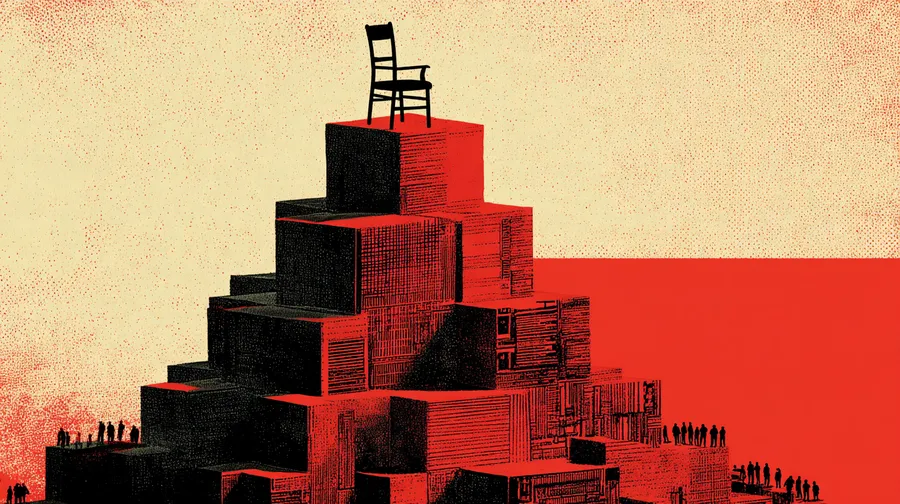
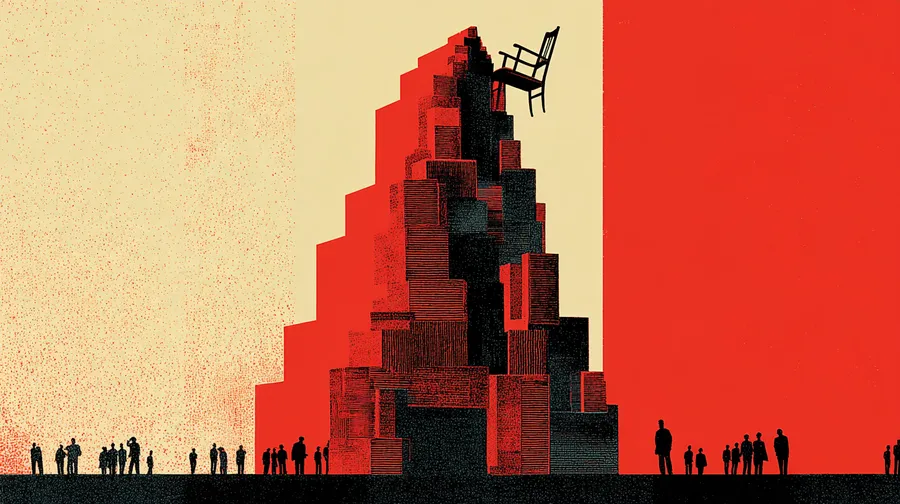
Settimanale n. 2: copertina con la torre stretta, cifra in nero (cover.art.figColor)
Claude-Session: https://claude.ai/code/session_01JWK7zqs3Rzft7JgutLc4bQ

diff --git a/settimanale/index.html b/settimanale/index.html
@@ -102,7 +102,7 @@ h1,h2,h3{text-wrap:balance}
 .hero h2{font-family:var(--f-disp);font-weight:400;font-size:clamp(44px,5.6vw,92px);line-height:.9;text-transform:uppercase;margin:0}
 .hero h2 a{text-decoration:none;color:inherit}
 .hero h2 a:hover{text-decoration:underline;text-decoration-thickness:4px;text-underline-offset:8px}
-.hero .fig{grid-column:3;text-align:right;color:#d2452b}
+.hero .fig{grid-column:3;text-align:right;color:var(--fig,#d2452b)}
 .hero .fig .big{font-family:var(--f-disp);font-size:clamp(100px,13vw,210px);line-height:.8;letter-spacing:-.02em;display:block}
 .hero .fig .big sup{font-size:.36em;vertical-align:top;position:relative;top:.12em;letter-spacing:0}
 .hero .fig p{font-size:12.5px;line-height:1.4;color:#16171b;margin:10px 0 0 auto;max-width:28ch}
@@ -260,7 +260,7 @@ footer a{color:var(--ink)}
 <!-- Dati facoltativi per lo stile Manifesto (data/issues.json):
      cover.figure = {"n":"1","of":"su oltre 40","label":"..."}: la cifra gigante della copertina (altrimenti numbers[0]);
      features[].figure = {"n":"1,5%","label":"..."}: la cifra di ogni capitolo nell'indice (altrimenti i minuti di lettura);
-     cover.art = {"file":"img/<data>-copertina.webp","small":"...-900.webp","width":1456,"height":816,"alt":"...","credit":"Illustrazione generata con Midjourney"}:
+     cover.art = {"file":"img/<data>-copertina.webp","small":"...-900.webp","width":1456,"height":816,"alt":"...","credit":"Illustrazione generata con Midjourney","figColor":"#16171b" (facoltativo: colore della cifra gigante se l'illustrazione è rossa a destra)}:
        copertina illustrata a tutta pagina con il titolo sopra lo spazio vuoto (al posto di cover.photo). -->
 <div class="progress" id="progress" hidden><div class="bar" id="bar"></div><span class="ptxt" id="ptxt"></span></div>
 <div class="wrap">
@@ -374,7 +374,7 @@ footer a{color:var(--ink)}
             <p class="k">Storia di copertina · ${esc(c.tag)}</p>
             <h2><a href="#a-${e.date}-${c.id}">${esc(c.title)}</a></h2>
           </div>
-          ${fig?`<div class="fig"><span class="big" aria-label="${esc(fig.n+(fig.of?' '+fig.of:''))}">${esc(fig.n)}${figOf?`<sup>/${esc(figOf)}</sup>`:''}</span><p>${esc(fig.label||'')}</p></div>`:''}
+          ${fig?`<div class="fig"${art.figColor?` style="--fig:${esc(art.figColor)}"`:''}><span class="big" aria-label="${esc(fig.n+(fig.of?' '+fig.of:''))}">${esc(fig.n)}${figOf?`<sup>/${esc(figOf)}</sup>`:''}</span><p>${esc(fig.label||'')}</p></div>`:''}
         </div></div>
       </section>
       <section class="cover after">
